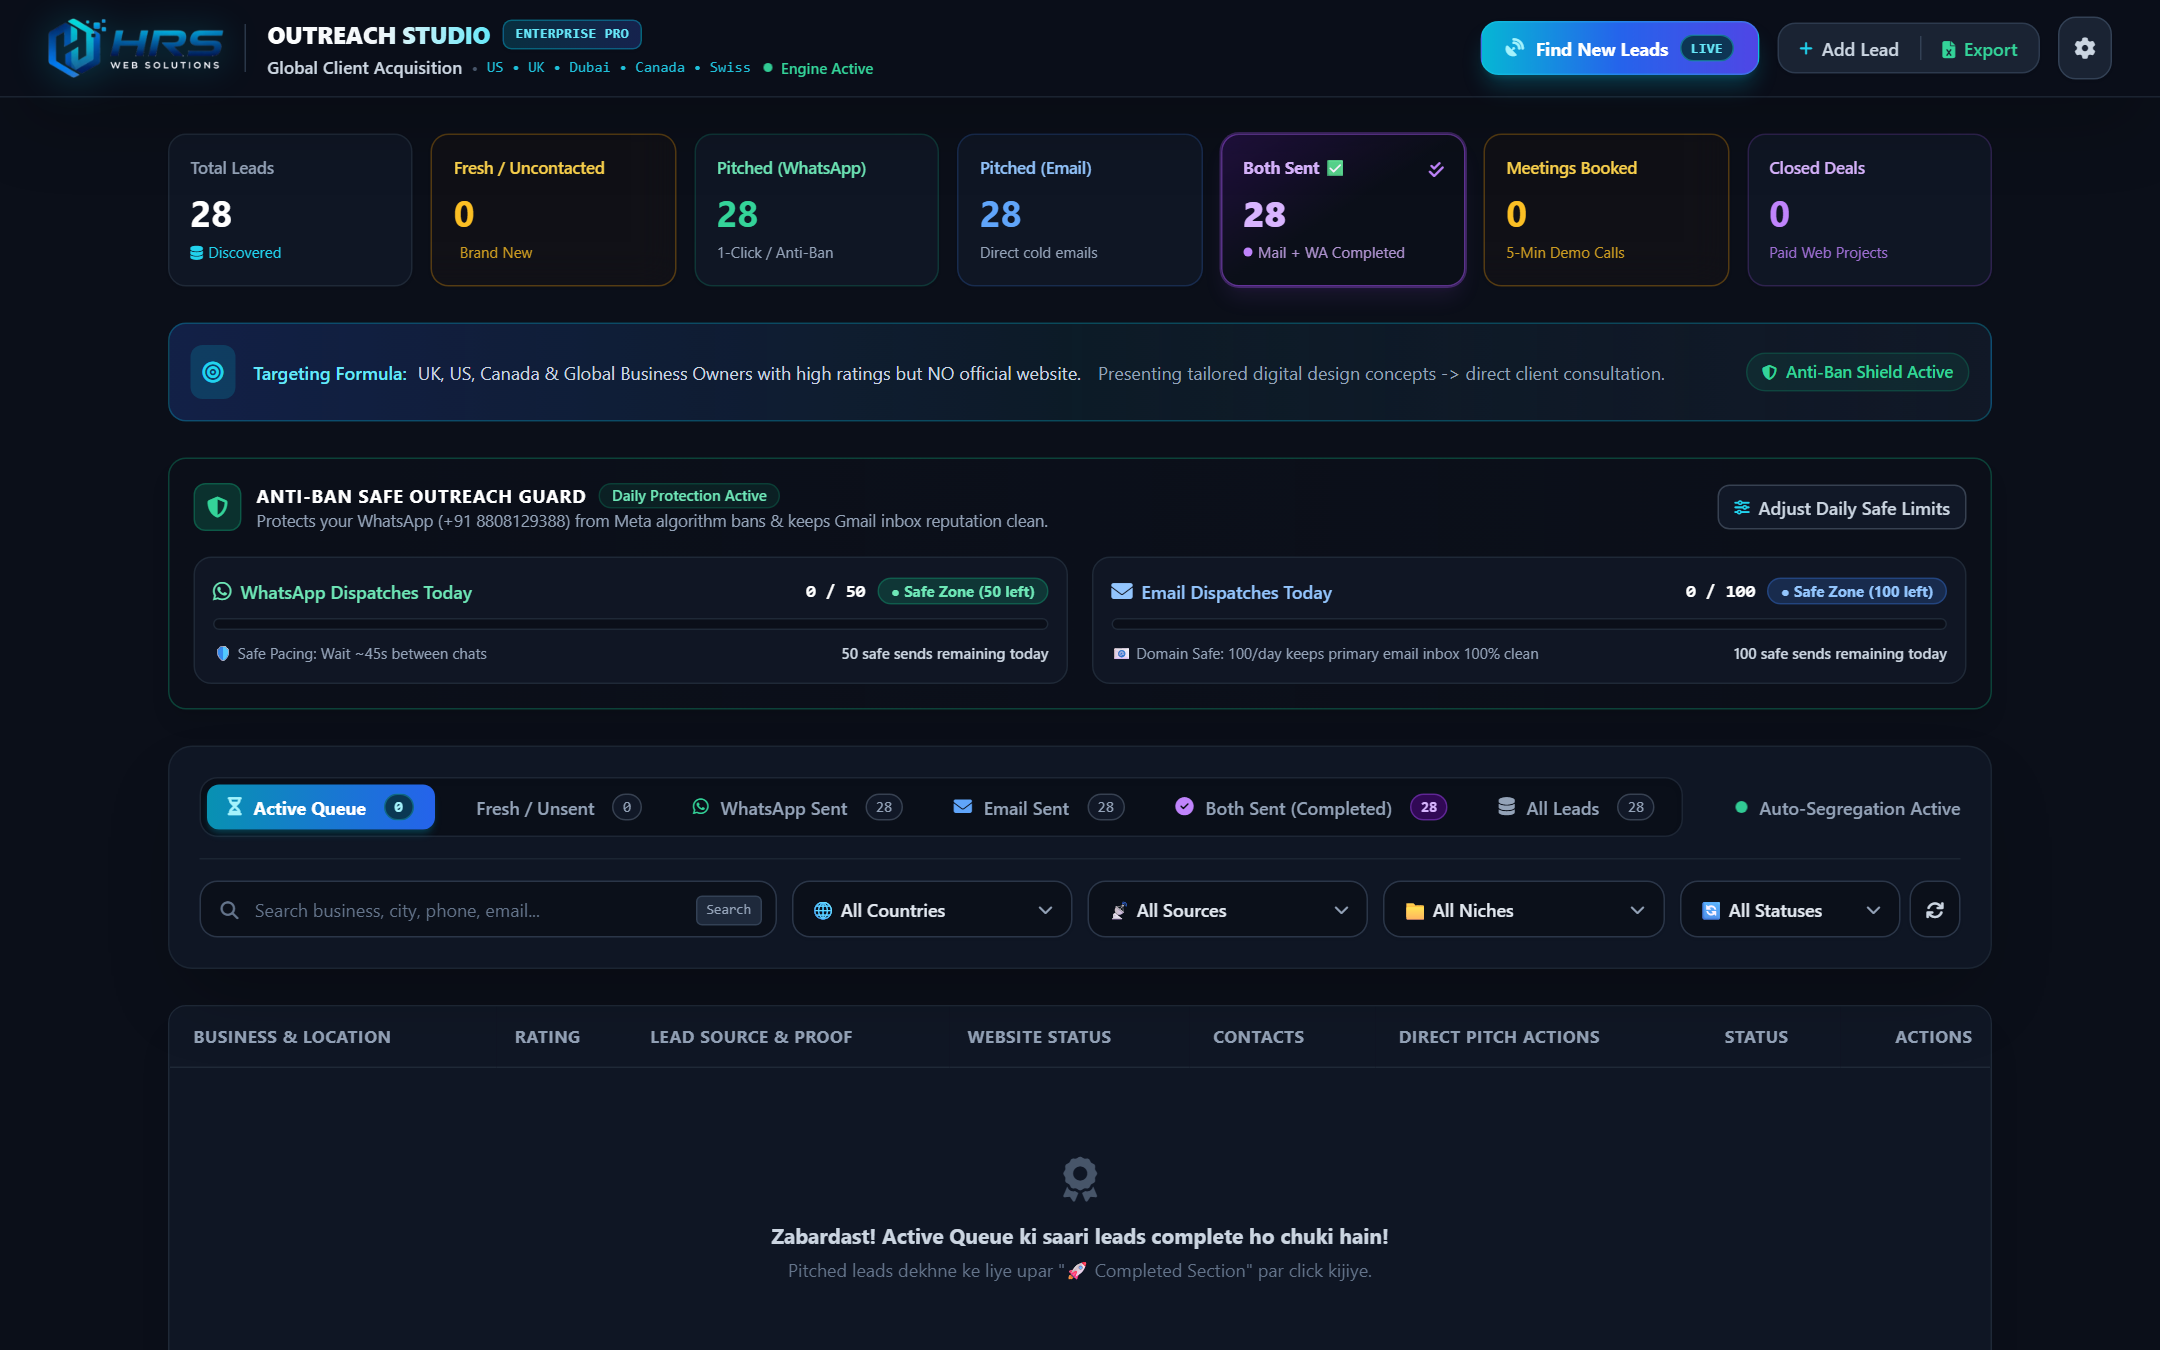
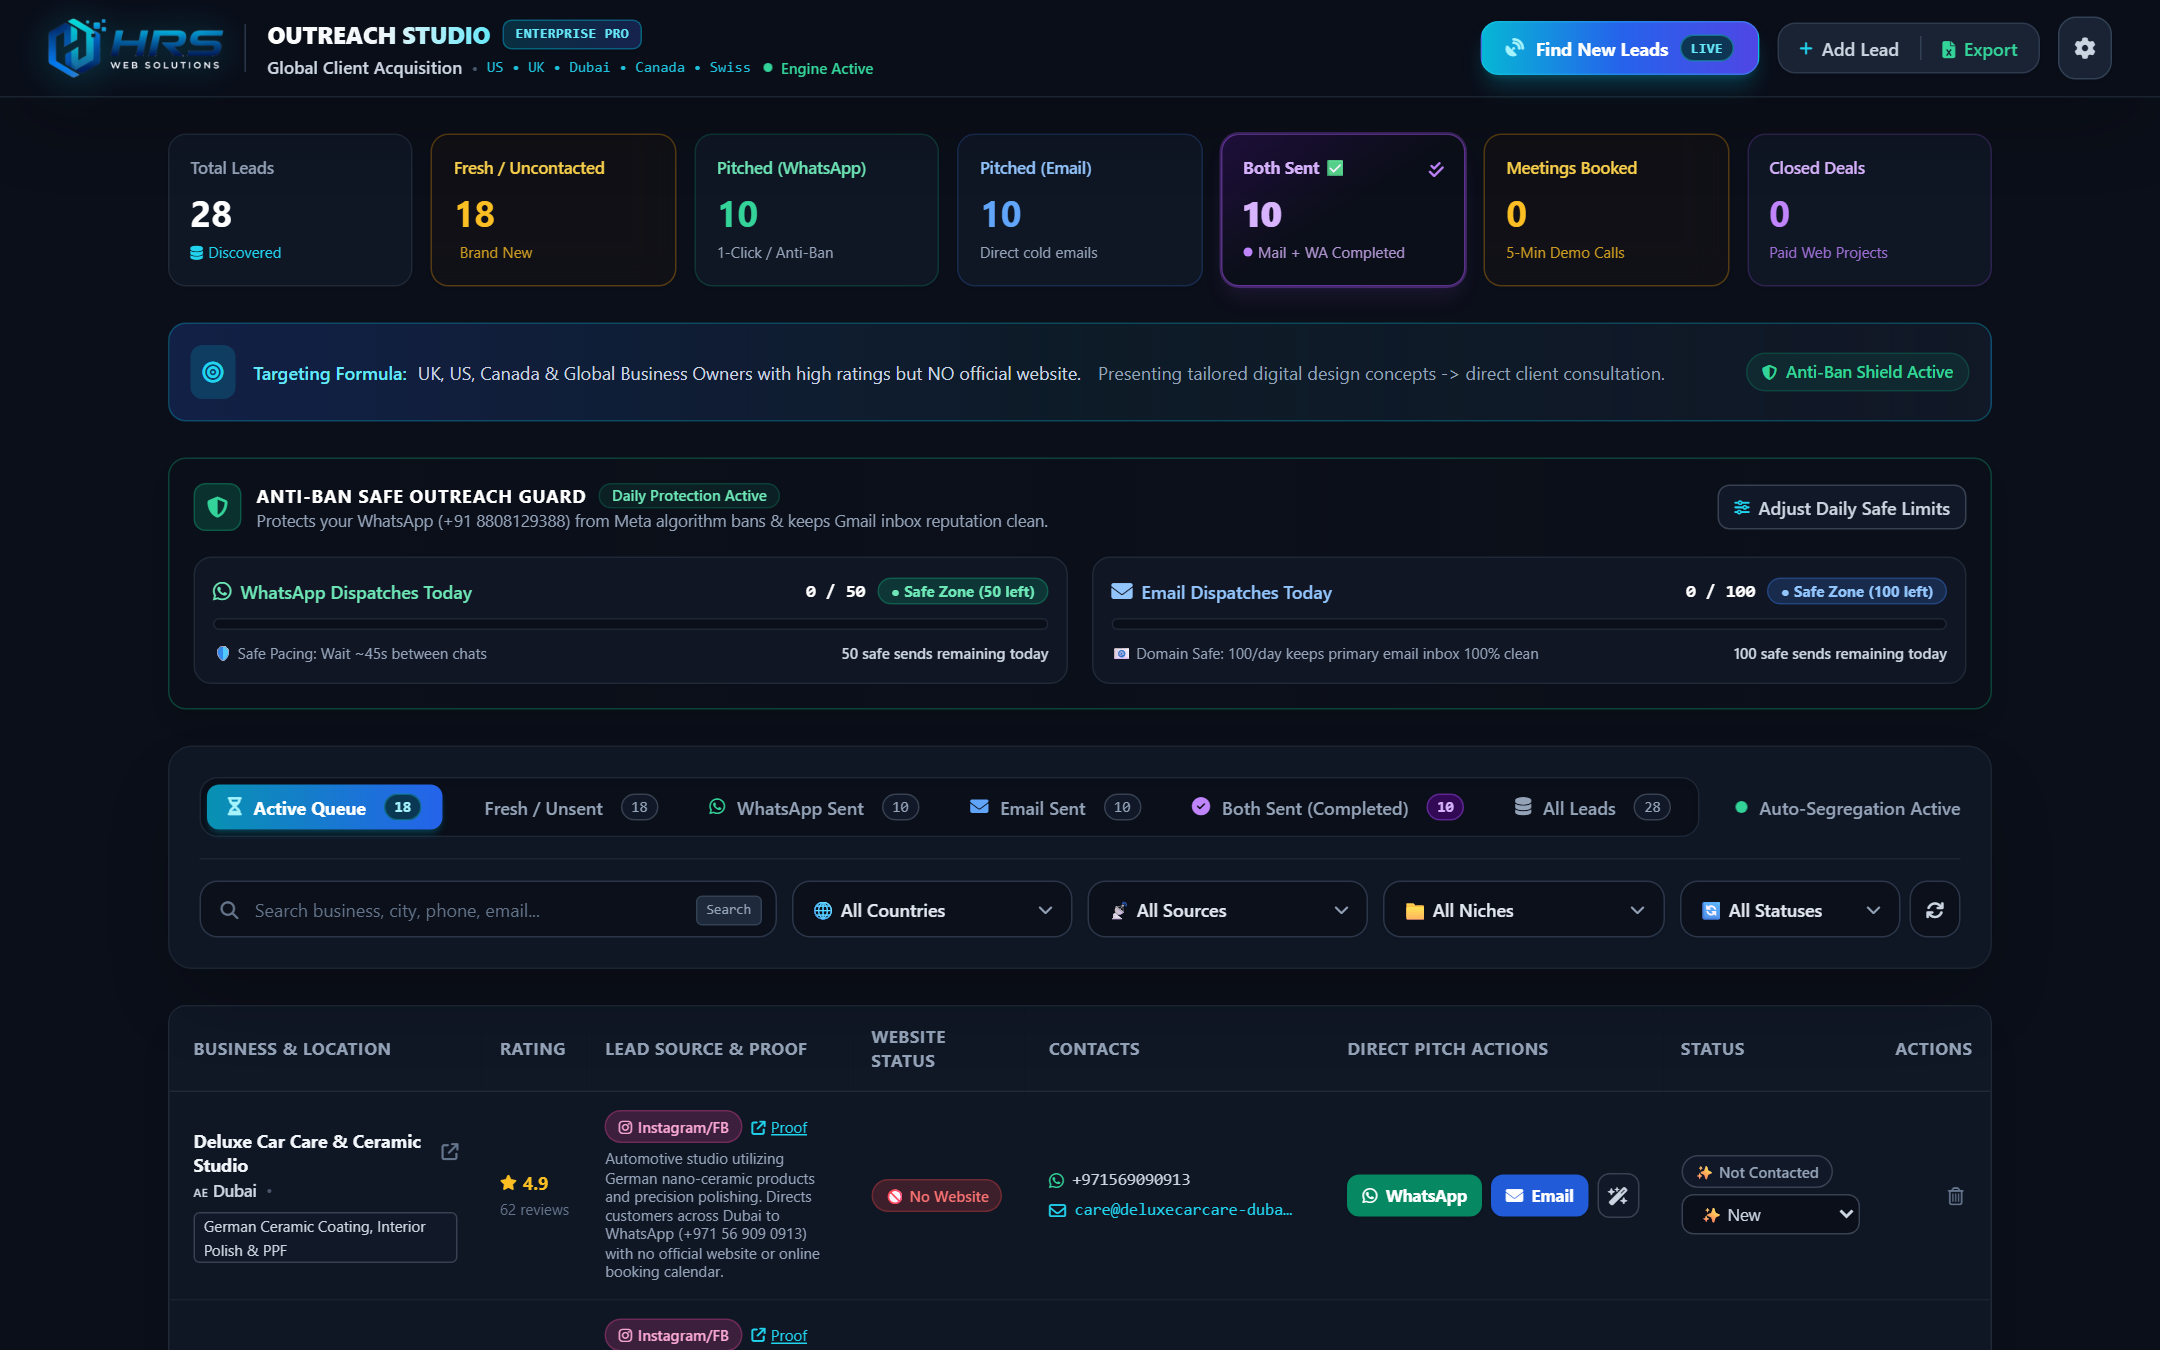
fix: remove popup message system and update lead records screenshot with verified leads table

diff --git a/script.js b/script.js
@@ -277,192 +277,5 @@ document.addEventListener('DOMContentLoaded', () => {
     }
   };
 
-  // 10. Live FOMO / Social Proof Sales Ticker
-  const fomoEvents = [
-    {
-      name: "Rohan S.",
-      city: "Noida, UP",
-      action: "Claimed Lifetime Commercial License",
-      time: "3m ago",
-      badge: "Verified Buyer",
-      icon: "fa-bolt",
-      colorClass: "amber"
-    },
-    {
-      name: "Priya M.",
-      city: "Mumbai",
-      action: "Closed $2,200 aesthetic clinic client in Dubai",
-      time: "11m ago",
-      badge: "Agency Win",
-      icon: "fa-trophy",
-      colorClass: "emerald"
-    },
-    {
-      name: "Farhan A.",
-      city: "Kanpur",
-      action: "Extracted 140 fresh leads using Maps Scraper",
-      time: "18m ago",
-      badge: "Lead Discovery",
-      icon: "fa-bullseye",
-      colorClass: "blue"
-    },
-    {
-      name: "Arjun K.",
-      city: "Bengaluru",
-      action: "Dispatched 45 AI-personalized pitches (0 bans)",
-      time: "24m ago",
-      badge: "WhatsApp Safe",
-      icon: "fa-shield-halved",
-      colorClass: "cyan"
-    },
-    {
-      name: "Vikram D.",
-      city: "Delhi NCR",
-      action: "Booked 2 website redesign discovery calls",
-      time: "31m ago",
-      badge: "Discovery Call",
-      icon: "fa-calendar-check",
-      colorClass: "emerald"
-    },
-    {
-      name: "Sameer P.",
-      city: "Hyderabad",
-      action: "Claimed 1-Click BAT Lifetime Access (₹1,999)",
-      time: "42m ago",
-      badge: "Verified Buyer",
-      icon: "fa-bolt",
-      colorClass: "amber"
-    },
-    {
-      name: "Ananya R.",
-      city: "Pune",
-      action: "Closed £1,800 UK dental clinic retainer",
-      time: "52m ago",
-      badge: "Agency Win",
-      icon: "fa-trophy",
-      colorClass: "emerald"
-    },
-    {
-      name: "Launch Batch Alert",
-      city: "India",
-      action: "Only 7 Lifetime Licenses left at ₹1,999 launch price",
-      time: "Live Deal",
-      badge: "Limited Stock",
-      icon: "fa-fire",
-      colorClass: "rose"
-    }
-  ];
 
-  function initFomoTicker() {
-    let container = document.querySelector('.fomo-ticker-container');
-    if (!container) {
-      container = document.createElement('div');
-      container.className = 'fomo-ticker-container';
-      container.innerHTML = `
-        <div id="fomoToast" class="fomo-toast">
-          <div id="fomoToastIcon" class="fomo-toast-icon amber">
-            <i class="fas fa-bolt"></i>
-          </div>
-          <div class="fomo-toast-content">
-            <div class="fomo-toast-title">
-              <span id="fomoToastName">Rohan S.</span>
-              <span class="text-slate-400 font-normal text-[11px]" id="fomoToastCity">(Noida, UP)</span>
-              <i class="fas fa-check-circle text-emerald-400 text-[10px] ml-0.5"></i>
-            </div>
-            <div class="fomo-toast-action" id="fomoToastAction">Claimed Lifetime Commercial License</div>
-            <div class="fomo-toast-meta">
-              <span id="fomoToastTime">3m ago</span>
-              <span>&bull;</span>
-              <span class="text-emerald-400 font-medium" id="fomoToastBadge">Verified Buyer</span>
-            </div>
-          </div>
-          <button type="button" class="fomo-close-btn" id="fomoCloseBtn" title="Dismiss">&times;</button>
-        </div>
-      `;
-      document.body.appendChild(container);
-    }
-
-    const toast = document.getElementById('fomoToast');
-    const toastIcon = document.getElementById('fomoToastIcon');
-    const toastName = document.getElementById('fomoToastName');
-    const toastCity = document.getElementById('fomoToastCity');
-    const toastAction = document.getElementById('fomoToastAction');
-    const toastTime = document.getElementById('fomoToastTime');
-    const toastBadge = document.getElementById('fomoToastBadge');
-    const closeBtn = document.getElementById('fomoCloseBtn');
-
-    if (!toast) return;
-
-    let currentIndex = 0;
-    let isPaused = false;
-    let hideTimeout = null;
-    let nextTimeout = null;
-
-    toast.addEventListener('mouseenter', () => { isPaused = true; });
-    toast.addEventListener('mouseleave', () => { isPaused = false; });
-
-    if (closeBtn) {
-      closeBtn.addEventListener('click', (e) => {
-        e.stopPropagation();
-        hideToast();
-        clearTimeout(nextTimeout);
-        nextTimeout = setTimeout(showNextToast, 35000);
-      });
-    }
-
-    function showToast(event) {
-      if (!event) return;
-      if (toastName) toastName.textContent = event.name;
-      if (toastCity) toastCity.textContent = `(${event.city})`;
-      if (toastAction) toastAction.textContent = event.action;
-      if (toastTime) toastTime.textContent = event.time;
-      if (toastBadge) toastBadge.textContent = event.badge;
-
-      if (toastIcon) {
-        toastIcon.className = `fomo-toast-icon ${event.colorClass}`;
-        toastIcon.innerHTML = `<i class="fas ${event.icon}"></i>`;
-      }
-
-      toast.classList.add('show');
-
-      clearTimeout(hideTimeout);
-      hideTimeout = setTimeout(() => {
-        if (!isPaused) {
-          hideToast();
-        } else {
-          const unpauseInterval = setInterval(() => {
-            if (!isPaused) {
-              clearInterval(unpauseInterval);
-              hideToast();
-            }
-          }, 1000);
-        }
-      }, 5500);
-    }
-
-    function hideToast() {
-      toast.classList.remove('show');
-    }
-
-    function showNextToast() {
-      currentIndex = (currentIndex + 1) % fomoEvents.length;
-      showToast(fomoEvents[currentIndex]);
-      scheduleNext();
-    }
-
-    function scheduleNext() {
-      clearTimeout(nextTimeout);
-      const delay = Math.floor(Math.random() * 8000) + 18000;
-      nextTimeout = setTimeout(showNextToast, delay);
-    }
-
-    // First appearance after 3.5 seconds
-    setTimeout(() => {
-      showToast(fomoEvents[0]);
-      scheduleNext();
-    }, 3500);
-  }
-
-  // Initialize FOMO Ticker
-  initFomoTicker();
 });

diff --git a/style.css b/style.css
@@ -468,156 +468,6 @@ h1, h2, h3, h4, h5, h6 {
 }
 
 /* ==========================================================================
-   LIVE FOMO & SOCIAL PROOF SALES TICKER
-   ========================================================================== */
-.fomo-ticker-container {
-  position: fixed;
-  bottom: 1.5rem;
-  left: 1.5rem;
-  z-index: 45;
-  max-width: 24.5rem;
-  width: calc(100% - 3rem);
-  pointer-events: none;
-}
-
-.fomo-toast {
-  pointer-events: auto;
-  background: rgba(8, 13, 26, 0.94);
-  backdrop-filter: blur(20px);
-  -webkit-backdrop-filter: blur(20px);
-  border: 1px solid rgba(59, 130, 246, 0.35);
-  border-radius: 1rem;
-  padding: 0.9rem 1rem;
-  box-shadow: 0 20px 40px -10px rgba(0, 0, 0, 0.8), 0 0 25px -5px rgba(37, 99, 235, 0.25);
-  display: flex;
-  align-items: center;
-  gap: 0.85rem;
-  transform: translateY(30px) scale(0.96);
-  opacity: 0;
-  visibility: hidden;
-  transition: all 0.4s cubic-bezier(0.16, 1, 0.3, 1);
-  position: relative;
-  overflow: hidden;
-}
-
-.fomo-toast::before {
-  content: '';
-  position: absolute;
-  top: 0;
-  left: 0;
-  right: 0;
-  height: 2px;
-  background: linear-gradient(90deg, #3B82F6, #10B981, #6366F1);
-}
-
-.fomo-toast.show {
-  transform: translateY(0) scale(1);
-  opacity: 1;
-  visibility: visible;
-}
-
-.fomo-toast-icon {
-  width: 2.5rem;
-  height: 2.5rem;
-  border-radius: 0.75rem;
-  display: flex;
-  align-items: center;
-  justify-content: center;
-  flex-shrink: 0;
-  font-size: 1rem;
-  position: relative;
-}
-
-.fomo-toast-icon.amber {
-  background: rgba(245, 158, 11, 0.15);
-  border: 1px solid rgba(245, 158, 11, 0.35);
-  color: #FBBF24;
-}
-
-.fomo-toast-icon.emerald {
-  background: rgba(16, 185, 129, 0.15);
-  border: 1px solid rgba(16, 185, 129, 0.35);
-  color: #34D399;
-}
-
-.fomo-toast-icon.blue {
-  background: rgba(59, 130, 246, 0.15);
-  border: 1px solid rgba(59, 130, 246, 0.35);
-  color: #60A5FA;
-}
-
-.fomo-toast-icon.rose {
-  background: rgba(244, 63, 94, 0.15);
-  border: 1px solid rgba(244, 63, 94, 0.35);
-  color: #FB7185;
-}
-
-.fomo-toast-icon.cyan {
-  background: rgba(6, 182, 212, 0.15);
-  border: 1px solid rgba(6, 182, 212, 0.35);
-  color: #22D3EE;
-}
-
-.fomo-toast-content {
-  flex: 1;
-  min-width: 0;
-}
-
-.fomo-toast-title {
-  color: #FFFFFF;
-  font-weight: 700;
-  font-size: 0.78rem;
-  line-height: 1.25;
-  display: flex;
-  align-items: center;
-  gap: 0.35rem;
-}
-
-.fomo-toast-action {
-  color: #CBD5E1;
-  font-size: 0.74rem;
-  margin-top: 0.2rem;
-  line-height: 1.35;
-  white-space: nowrap;
-  overflow: hidden;
-  text-overflow: ellipsis;
-}
-
-.fomo-toast-meta {
-  color: #64748B;
-  font-size: 0.68rem;
-  margin-top: 0.2rem;
-  display: flex;
-  align-items: center;
-  gap: 0.4rem;
-}
-
-.fomo-close-btn {
-  background: transparent;
-  border: none;
-  color: #64748B;
-  font-size: 1.2rem;
-  line-height: 1;
-  cursor: pointer;
-  padding: 0.2rem;
-  transition: color 0.2s ease;
-  flex-shrink: 0;
-}
-
-.fomo-close-btn:hover {
-  color: #FFFFFF;
-}
-
-@media (max-width: 640px) {
-  .fomo-ticker-container {
-    bottom: 1rem;
-    left: 0.75rem;
-    width: calc(100% - 1.5rem);
-    max-width: none;
-  }
-}
-
-/* ==========================================================================
    ROI CALCULATOR PRESET BUTTONS
    ========================================================================== */
 .roi-preset-btn {
